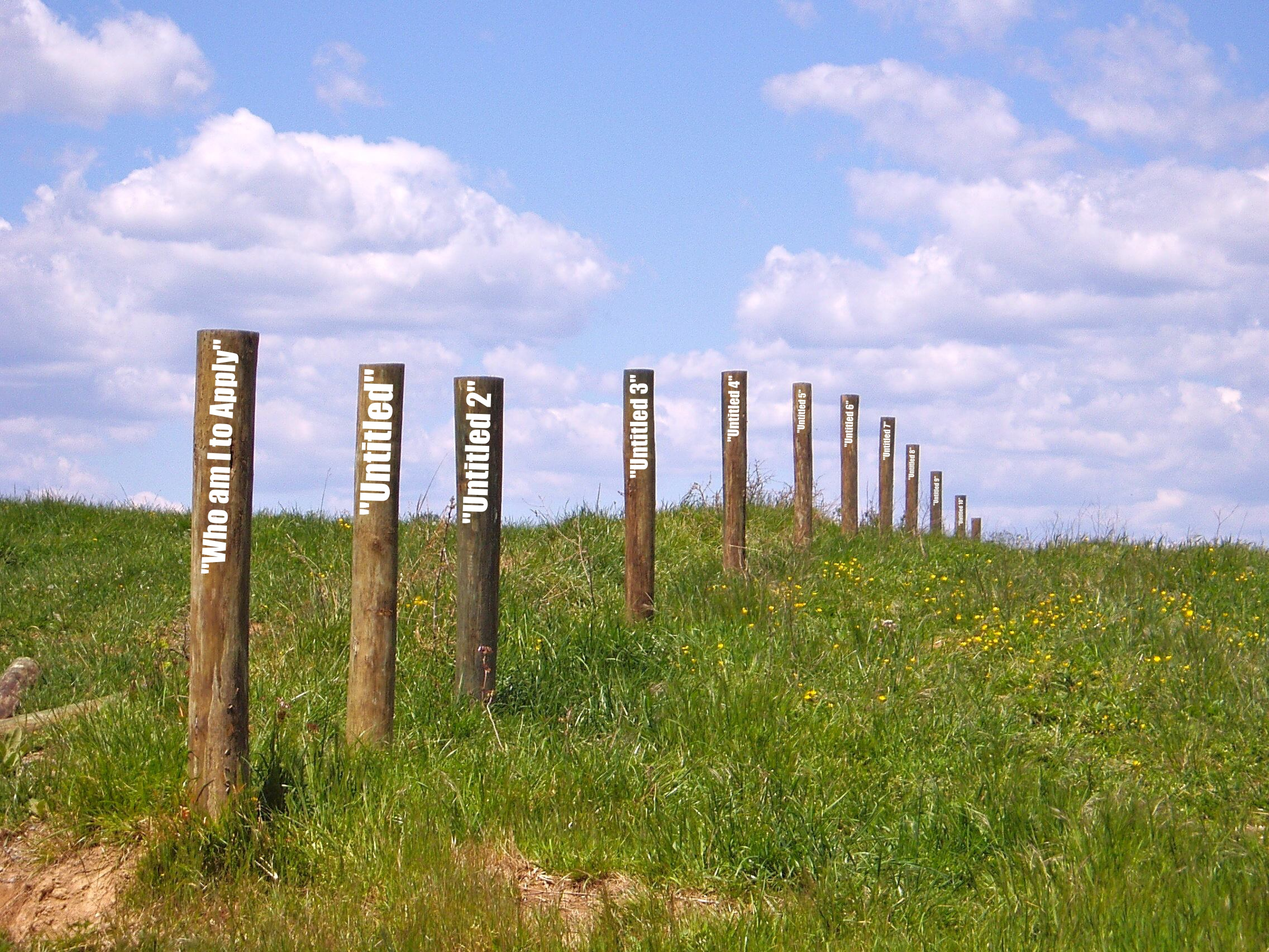
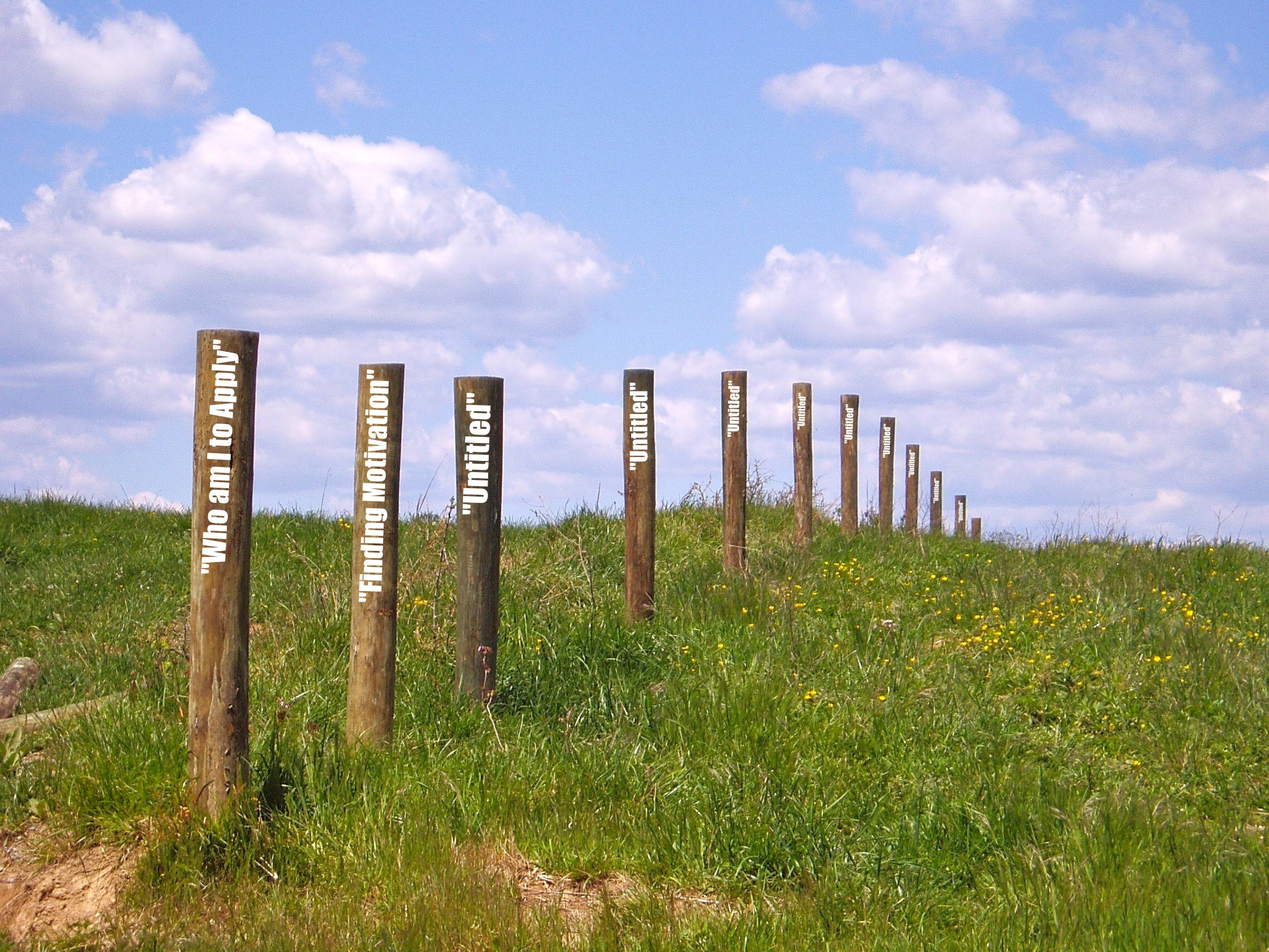
Post two

diff --git a/post2.html b/post2.html
@@ -1,0 +1,162 @@
+<!DOCTYPE html>
+<html lang="en">
+
+<head>
+
+  <meta charset="utf-8">
+  <meta name="viewport" content="width=device-width, initial-scale=1, shrink-to-fit=no">
+  <meta name="description" content="">
+  <meta name="author" content="">
+
+  <title>Chris Roman</title>
+
+  <!-- Bootstrap core CSS -->
+  <link href="vendor/bootstrap/css/bootstrap.min.css" rel="stylesheet">
+
+  <!-- Custom fonts for this template -->
+  <link href="vendor/fontawesome-free/css/all.min.css" rel="stylesheet" type="text/css">
+  <link href='https://fonts.googleapis.com/css?family=Lora:400,700,400italic,700italic' rel='stylesheet' type='text/css'>
+  <link href='https://fonts.googleapis.com/css?family=Open+Sans:300italic,400italic,600italic,700italic,800italic,400,300,600,700,800' rel='stylesheet' type='text/css'>
+
+  <!-- Custom styles for this template -->
+  <link href="css/clean-blog.min.css" rel="stylesheet">
+
+</head>
+
+<body>
+
+  <!-- Navigation -->
+  <nav class="navbar navbar-expand-lg navbar-light fixed-top" id="mainNav">
+    <div class="container">
+      <a class="navbar-brand" href="index.html">Chris Roman</a>
+      <button class="navbar-toggler navbar-toggler-right" type="button" data-toggle="collapse" data-target="#navbarResponsive" aria-controls="navbarResponsive" aria-expanded="false" aria-label="Toggle navigation">
+        Menu
+        <i class="fas fa-bars"></i>
+      </button>
+      <div class="collapse navbar-collapse" id="navbarResponsive">
+        <ul class="navbar-nav ml-auto">
+          <li class="nav-item">
+            <a class="nav-link" href="index.html">Home</a>
+          </li>
+          <li class="nav-item">
+            <a class="nav-link" href="about.html">About</a>
+          </li>
+          <li class="nav-item">
+            <a class="nav-link" href="post.html">Posts</a>
+          </li>
+        </ul>
+      </div>
+    </div>
+  </nav>
+
+  <!-- Page Header -->
+  <header class="masthead" style="background-image: url('img/post-bg.jpg')">
+    <div class="overlay"></div>
+    <div class="container">
+      <div class="row">
+        <div class="col-lg-8 col-md-10 mx-auto">
+          <div class="post-heading">
+          </div>
+        </div>
+      </div>
+    </div>
+  </header>
+
+  <!-- Post Content -->
+  <article>
+    <div class="container">
+      <div class="row">
+        <div class="col-lg-8 col-md-10 mx-auto">
+          <h1>Finding Motivation</h1>
+            <span class="meta">Posted by
+              <a href="https://github.com/Christopher-Roman" target="_blank">Chris Roman</a>
+              on February 6, 2019</span>
+          <p>I’ve been working for most of my life. My parents had a side hustle cleaning condos and office buildings when I was a kid and what better use is there for seven children than cheap labor? So as a child I worked for my parents.</p>
+
+          <p>When I was fifteen, I wanted my own computer. So I got a job at a summer camp to earn the money to purchase it.</p>
+
+          <p>When I was sixteen I wanted cable internet. So I started working at a grocery store.</p>
+
+          <p>I wanted to go to college, so I picked up two more part time jobs and went to school.</p>
+
+          <p>I got my first hospitality job while I was still in school and was able to drop down to just that full time job while I finished out my degree.</p>
+
+          <p>It all goes down in history from there. I’ve been gainfully employed since I was fifteen years old and I never looked back, until I left the workforce entirely to follow a dream. After eighteen years in the workforce I quit my job and started prepping for bootcamp. </p>
+
+          <p>But, even when I started the bootcamp I looked at it like a job. I woke up every day at a set time, got ready, made my lunch, went to class for eight or more hours Monday through Friday, went home and did homework, and finally went to bed at a decent time to do it all again the next day. It was a job for all intents and purposes. Then I graduated…</p>
+
+          <p>As it turns out, my motivation was always fueled by the desire to be as good as I could be in the job that I was doing. I’m not a competitive person, but when it came to work, I wanted to be the best. And, I know a lot of people who are like me in that sense.</p>
+
+          <p>But, where do you find the motivation when there isn’t anyone to compete with? When you don’t have a boss who says, “I need this done by this time”. When the only person holding you accountable is you. I didn’t realize how easy it was to do nothing. How enticing it can be to spend an ENTIRE day watching Hulu or Netflix or whatever distraction you might find. So, after spending more time than I’d care to admit doing nothing, I realized that something needed to change. I needed to find a way to hold myself accountable for things. A way to set deadlines that I’d be motivated to meet. So how do you do that? How do you find what motivates YOU when YOU are the only one saying you need to get something done. It’s a much tougher question to answer than I was expecting.</p>
+
+          <p>So, I looked back. I looked at the things that I did to achieve the goals I had set for myself. My first five jobs were so I could get things that I wanted. Those things were my driving force. After that I worked to live. Fifteen years of working to live and having someone else crack the whip made me <del>accustomed</del> dependant on having someone else be the driving force behind my motivation. How do you break that habit? How do you get out of that mindset? Like a fan of the show Lost, I kept finding questions to ask without any answers.</p>
+
+          <p>I had to go back to the basics. I had to take a look at the root cause. Habits. I had made of habit of relying on others in power to guide my focus. An answer, finally. But, there was a lot still to figure out. But I had a starting point. Time to break some habits!</p>
+
+      	  <p>Well, breaking a habit is hard. But, creating a new habit isn’t. Time to create some new habit to replace the old ones. There is a saying that has been adapted over a very long period of time. There are other variations of it, but in the biopic “The Iron Lady”, is where it resonated most with me.</p>
+
+          <blockquote class="blockquote">
+          	Watch your thoughts, for they become words. <br>
+			Watch your words, for they become actions. <br>
+			Watch your actions, for they become habits. <br>
+			Watch your habits, for they become your character. <br>
+			And watch your character, for it becomes your destiny. <br>
+			What we think, we become… - Meryl Streep speaking as Margaret Thatcher
+			</blockquote>
+
+          <p>It’s time to really start thinking about what I need to do to achieve my goals.</p>
+
+        </div>
+      </div>
+    </div>
+  </article>
+
+  <hr>
+
+  <!-- Footer -->
+  <footer>
+    <div class="container">
+      <div class="row">
+        <div class="col-lg-8 col-md-10 mx-auto">
+          <ul class="list-inline text-center">
+            <li class="list-inline-item">
+              <a href="https://twitter.com/TopherR3" target="_blank">
+                <span class="fa-stack fa-lg">
+                  <i class="fas fa-circle fa-stack-2x"></i>
+                  <i class="fab fa-twitter fa-stack-1x fa-inverse"></i>
+                </span>
+              </a>
+            </li>
+            <li class="list-inline-item">
+              <a href="https://www.linkedin.com/in/christopher-roman-cr/" target="_blank">
+                <span class="fa-stack fa-lg">
+                  <i class="fas fa-circle fa-stack-2x"></i>
+                  <i class="fab fa-linkedin fa-stack-1x fa-inverse"></i>
+                </span>
+              </a>
+            </li>
+            <li class="list-inline-item">
+              <a href="https://github.com/Christopher-Roman" target="_blank">
+                <span class="fa-stack fa-lg">
+                  <i class="fas fa-circle fa-stack-2x"></i>
+                  <i class="fab fa-github fa-stack-1x fa-inverse"></i>
+                </span>
+              </a>
+            </li>
+          </ul>
+          <p class="copyright text-muted">Copyright &copy; Chris Roman 2019</p>
+        </div>
+      </div>
+    </div>
+  </footer>
+
+  <!-- Bootstrap core JavaScript -->
+  <script src="vendor/jquery/jquery.min.js"></script>
+  <script src="vendor/bootstrap/js/bootstrap.bundle.min.js"></script>
+
+  <!-- Custom scripts for this template -->
+  <script src="js/clean-blog.min.js"></script>
+
+</body>
+
+</html>

diff --git a/index.html b/index.html
@@ -82,17 +82,20 @@
             on February 1, 2019</p>
         </div>
         <!-- <hr> -->
-        <!-- <div class="post-preview">
-          <a href="post.html">
+        <div class="post-preview">
+          <a href="post2.html">
             <h2 class="post-title">
-              
+              Finding Motivation
             </h2>
+            <h3 class="post-subtitle">
+              I’ve been gainfully employed since I was fifteen years old and I never looked back, until I left the workforce entirely to follow a dream.
+            </h3>
           </a>
           <p class="post-meta">Posted by
-            <a href="#">Start Bootstrap</a>
-            on September 18, 2019</p>
+            <a href="https://github.com/Christopher-Roman">Chris Roman</a>
+            on February 6, 2019</p>
         </div>
-        <hr>
+        <!-- <hr>
         <div class="post-preview">
           <a href="post.html">
             <h2 class="post-title">
